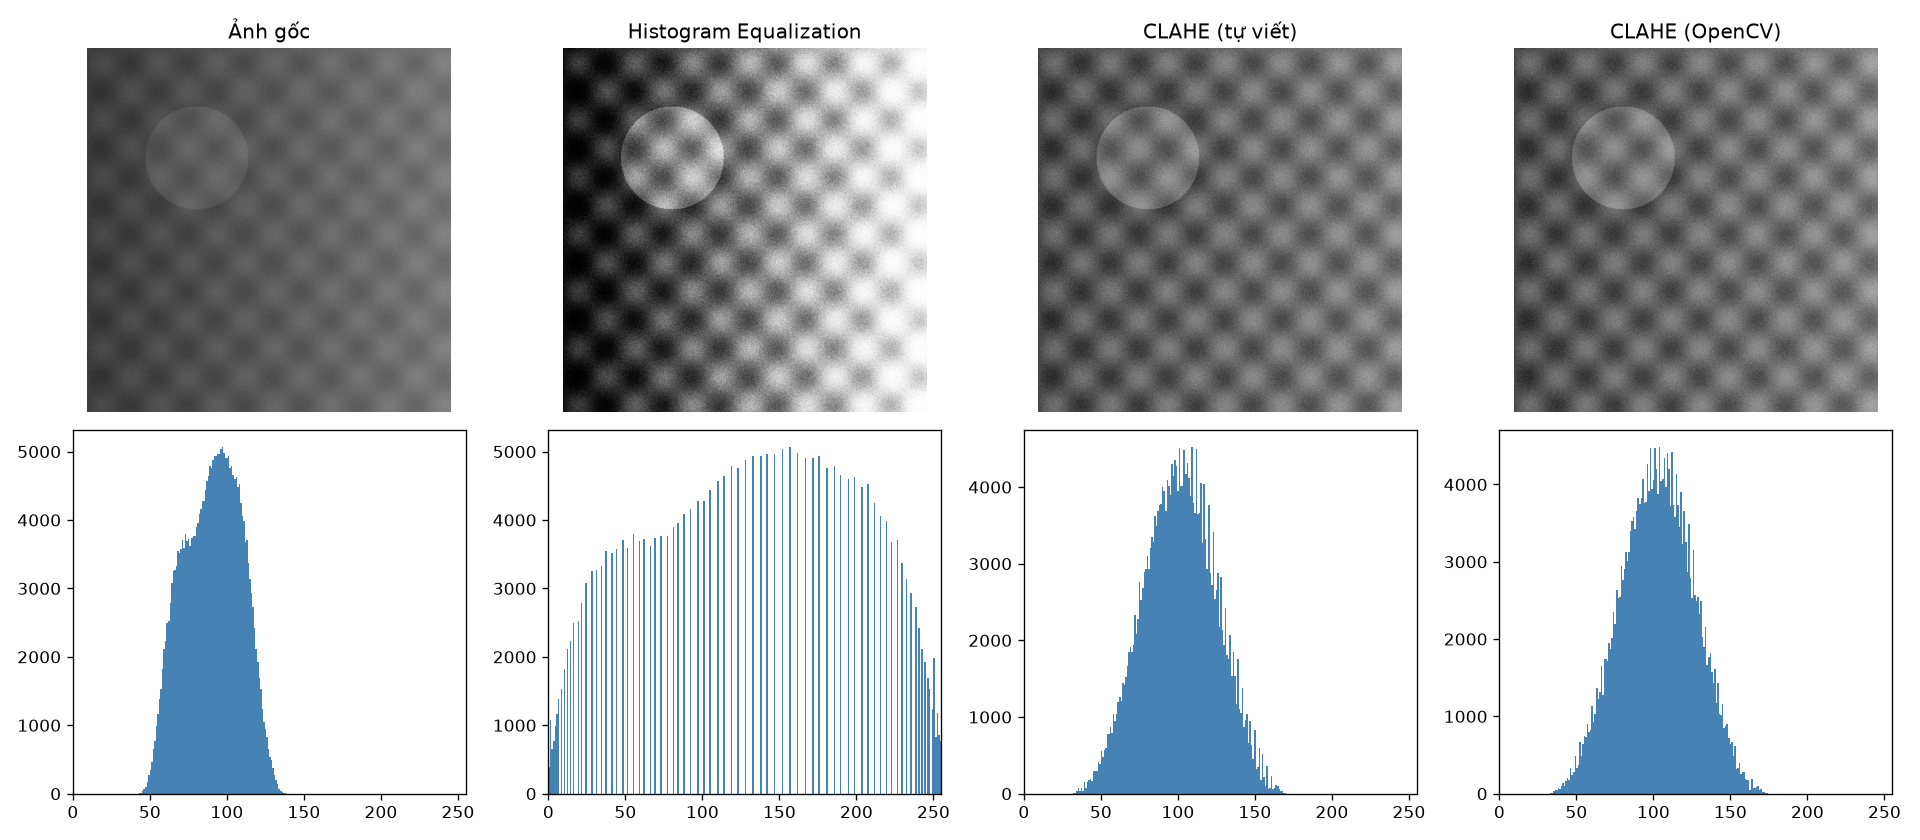
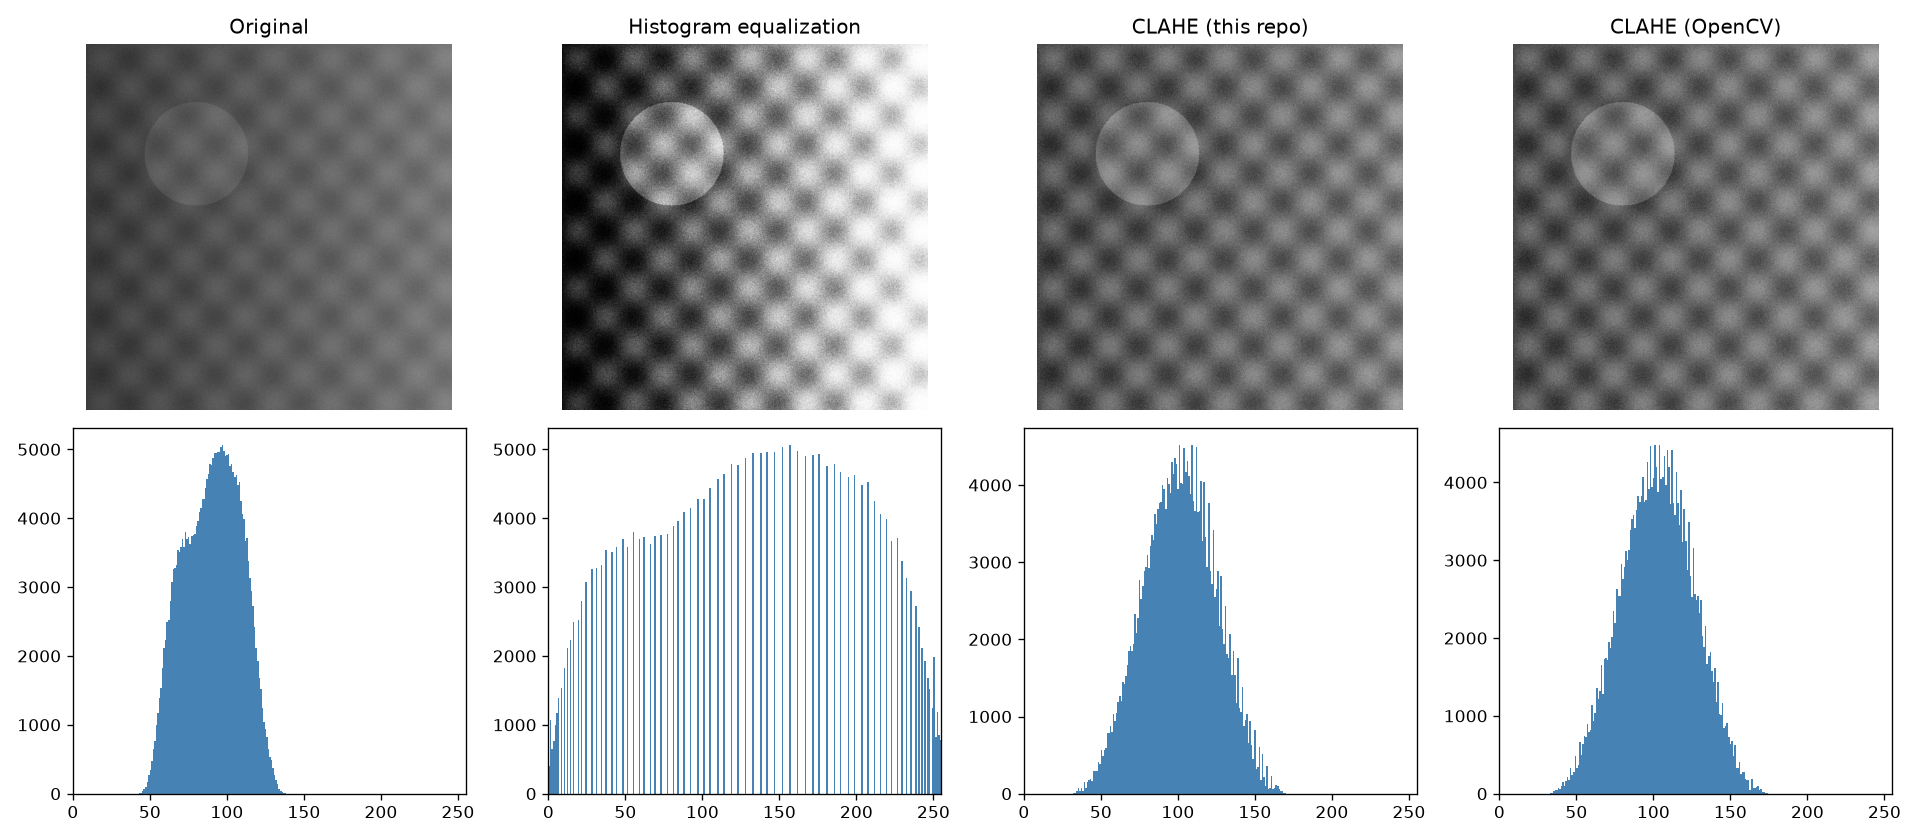
Translate code comments, plots and README to English

diff --git a/demo.py b/demo.py
@@ -1,10 +1,9 @@
 """
-So sánh: ảnh gốc | Histogram Equalization (HE) | CLAHE tự viết | CLAHE OpenCV
-kèm histogram và chỉ số PSNR giữa CLAHE tự viết và OpenCV.
+Compare the original image, global histogram equalization, this CLAHE and OpenCV's CLAHE,
+with histograms and the PSNR between the two CLAHE outputs.
 
-Chạy:
-    python demo.py                    # dùng ảnh tương phản thấp tự sinh
-    python demo.py --image anh.jpg    # dùng ảnh của bạn
+    python demo.py                   # synthetic low-contrast test image
+    python demo.py --image photo.jpg
 """
 import argparse
 import os
@@ -17,13 +16,13 @@ from clahe import clahe
 
 
 def make_low_contrast_image(size=512):
-    """Sinh ảnh thử: vùng tối/sáng không đều, chi tiết tương phản thấp."""
+    """Uneven lighting, a faint pattern, a faint disc and some noise."""
     y, x = np.mgrid[0:size, 0:size] / size
-    base = 60 + 60 * x                          # chiếu sáng không đều
+    lighting = 60 + 60 * x
     pattern = 12 * np.sin(40 * x) * np.sin(40 * y)
-    circles = 15 * (((x - 0.3) ** 2 + (y - 0.3) ** 2) < 0.02)
+    disc = 15 * (((x - 0.3) ** 2 + (y - 0.3) ** 2) < 0.02)
     noise = np.random.default_rng(0).normal(0, 3, (size, size))
-    return np.clip(base + pattern + circles + noise, 0, 255).astype(np.uint8)
+    return np.clip(lighting + pattern + disc + noise, 0, 255).astype(np.uint8)
 
 
 def psnr(a, b):
@@ -33,26 +32,26 @@ def psnr(a, b):
 
 def main():
     ap = argparse.ArgumentParser()
-    ap.add_argument("--image", help="đường dẫn ảnh đầu vào")
+    ap.add_argument("--image", help="input image path")
     ap.add_argument("--clip", type=float, default=2.0, help="clip limit")
-    ap.add_argument("--grid", type=int, default=8, help="số tile mỗi chiều")
+    ap.add_argument("--grid", type=int, default=8, help="tiles per side")
     ap.add_argument("--out", default="results/comparison.png")
     args = ap.parse_args()
 
     if args.image:
         img = cv2.imread(args.image, cv2.IMREAD_GRAYSCALE)
         if img is None:
-            raise SystemExit(f"Không đọc được ảnh: {args.image}")
+            raise SystemExit(f"could not read image: {args.image}")
     else:
         img = make_low_contrast_image()
 
     he = cv2.equalizeHist(img)
     ours = clahe(img, args.clip, (args.grid, args.grid))
     ref = cv2.createCLAHE(clipLimit=args.clip, tileGridSize=(args.grid, args.grid)).apply(img)
-    print(f"PSNR (CLAHE tự viết vs OpenCV): {psnr(ours, ref):.2f} dB")
+    print(f"PSNR, this CLAHE vs OpenCV: {psnr(ours, ref):.2f} dB")
 
-    images = [("Ảnh gốc", img), ("Histogram Equalization", he),
-              ("CLAHE (tự viết)", ours), ("CLAHE (OpenCV)", ref)]
+    images = [("Original", img), ("Histogram equalization", he),
+              ("CLAHE (this repo)", ours), ("CLAHE (OpenCV)", ref)]
     fig, axes = plt.subplots(2, 4, figsize=(16, 7))
     for k, (title, im) in enumerate(images):
         axes[0, k].imshow(im, cmap="gray", vmin=0, vmax=255)
@@ -64,7 +63,6 @@ def main():
 
     os.makedirs(os.path.dirname(args.out) or ".", exist_ok=True)
     fig.savefig(args.out, dpi=120)
-    print("Đã lưu", args.out)
     plt.show()
 
 

diff --git a/clahe.py b/clahe.py
@@ -1,19 +1,10 @@
-"""
-CLAHE (Contrast Limited Adaptive Histogram Equalization) viết từ đầu bằng NumPy.
-
-Các bước:
-1. Chia ảnh thành lưới tile (vd 8x8).
-2. Tính histogram mỗi tile, cắt (clip) các bin vượt ngưỡng clip_limit
-   và phân phối lại phần dư đều cho mọi bin -> hạn chế khuếch đại nhiễu.
-3. Tính hàm ánh xạ (CDF) cho từng tile.
-4. Nội suy song tuyến tính giữa 4 tile lân cận để tránh hiệu ứng "ô vuông".
-"""
+"""CLAHE (Contrast Limited Adaptive Histogram Equalization) in NumPy."""
 import numpy as np
 
 
 def _tile_mapping(tile, clip_limit, n_bins=256):
     hist = np.bincount(tile.ravel(), minlength=n_bins).astype(np.float64)
-    # clip_limit tính theo bội số của giá trị trung bình mỗi bin (giống OpenCV)
+    # clip_limit is a multiple of the mean bin height, as in OpenCV
     limit = max(clip_limit * tile.size / n_bins, 1.0)
     excess = np.sum(np.maximum(hist - limit, 0))
     hist = np.minimum(hist, limit) + excess / n_bins
@@ -22,14 +13,13 @@ def _tile_mapping(tile, clip_limit, n_bins=256):
 
 
 def clahe(img, clip_limit=2.0, grid=(8, 8)):
-    """Áp dụng CLAHE cho ảnh xám uint8."""
+    """Apply CLAHE to a uint8 grayscale image."""
     if img.ndim != 2 or img.dtype != np.uint8:
-        raise ValueError("Cần ảnh xám kiểu uint8")
+        raise ValueError(f"expected a 2-D uint8 image, got shape {img.shape} and dtype {img.dtype}")
     h, w = img.shape
     gy, gx = grid
     th, tw = int(np.ceil(h / gy)), int(np.ceil(w / gx))
 
-    # Đệm ảnh (phản chiếu) để chia hết cho kích thước tile
     padded = np.pad(img, ((0, th * gy - h), (0, tw * gx - w)), mode="reflect")
 
     maps = np.empty((gy, gx, 256))
@@ -37,7 +27,7 @@ def clahe(img, clip_limit=2.0, grid=(8, 8)):
         for j in range(gx):
             maps[i, j] = _tile_mapping(padded[i * th:(i + 1) * th, j * tw:(j + 1) * tw], clip_limit)
 
-    # Toạ độ của mỗi pixel so với tâm các tile
+    # Bilinear interpolation between the four nearest tile centres removes block edges
     yc = (np.arange(h) + 0.5) / th - 0.5
     xc = (np.arange(w) + 0.5) / tw - 0.5
     y0 = np.clip(np.floor(yc).astype(int), 0, gy - 1)

diff --git a/README.md b/README.md
@@ -1,30 +1,30 @@
 # CLAHE Image Enhancement
 
-Cài đặt **CLAHE** (Contrast Limited Adaptive Histogram Equalization) từ đầu bằng NumPy, so sánh với Histogram Equalization toàn cục và `cv2.createCLAHE` của OpenCV.
+CLAHE (Contrast Limited Adaptive Histogram Equalization) written from scratch in NumPy and compared with global histogram equalization and OpenCV's `cv2.createCLAHE`.
 
-![So sánh](results/comparison.png)
+![Comparison](results/comparison.png)
 
-## Ý tưởng
-Histogram Equalization (HE) toàn cục làm giãn tương phản theo histogram của **cả ảnh**, nên dễ làm cháy vùng sáng và khuếch đại nhiễu. CLAHE khắc phục bằng cách:
+## Why CLAHE
+Global histogram equalization stretches contrast using the histogram of the whole image. Under uneven lighting it washes out bright regions and amplifies noise in flat ones. CLAHE fixes this in three steps:
 
-1. **Chia ảnh thành lưới tile** (mặc định 8×8) và cân bằng histogram **cục bộ** cho từng tile.
-2. **Giới hạn tương phản (clip limit):** cắt các bin histogram vượt ngưỡng và phân phối lại phần dư đều cho mọi bin, tránh khuếch đại nhiễu ở vùng đồng nhất.
-3. **Nội suy song tuyến tính** giữa hàm ánh xạ của 4 tile lân cận để không xuất hiện đường biên giữa các tile.
+1. Split the image into tiles (8×8 by default) and equalize each tile on its own histogram.
+2. Clip every histogram bin at a limit and spread the excess evenly over all bins. This caps how much contrast, and noise, a flat region can gain.
+3. Blend the mappings of the four nearest tiles with bilinear interpolation so no tile edges show.
 
-## Cấu trúc
+## Files
 ```
-clahe.py      # Hàm clahe(img, clip_limit, grid) viết bằng NumPy
-demo.py       # So sánh Gốc / HE / CLAHE tự viết / CLAHE OpenCV + histogram + PSNR
-results/      # Ảnh kết quả
+clahe.py   # clahe(img, clip_limit, grid)
+demo.py    # original / HE / this CLAHE / OpenCV CLAHE, histograms and PSNR
+results/   # output images
 ```
 
-## Chạy
+## Running
 ```bash
 pip install -r requirements.txt
-python demo.py                          # ảnh thử tương phản thấp tự sinh
-python demo.py --image anh.jpg --clip 3 --grid 8
+python demo.py                            # synthetic low-contrast image
+python demo.py --image photo.jpg --clip 3 --grid 8
 ```
-`demo.py` in ra PSNR giữa bản tự viết và OpenCV để kiểm tra độ chính xác.
+On the synthetic image the output matches OpenCV at 43 dB PSNR.
 
-## Ứng dụng
-Tiền xử lý cho ảnh y tế (X-quang), ảnh chụp thiếu sáng, ảnh kiểm tra quang học (AOI) và làm bước đầu cho các thuật toán phát hiện đặc trưng / thị giác máy tính.
+## Uses
+Preprocessing for X-ray and other medical images, low-light photos, automated optical inspection, and as a first step before feature detection.
